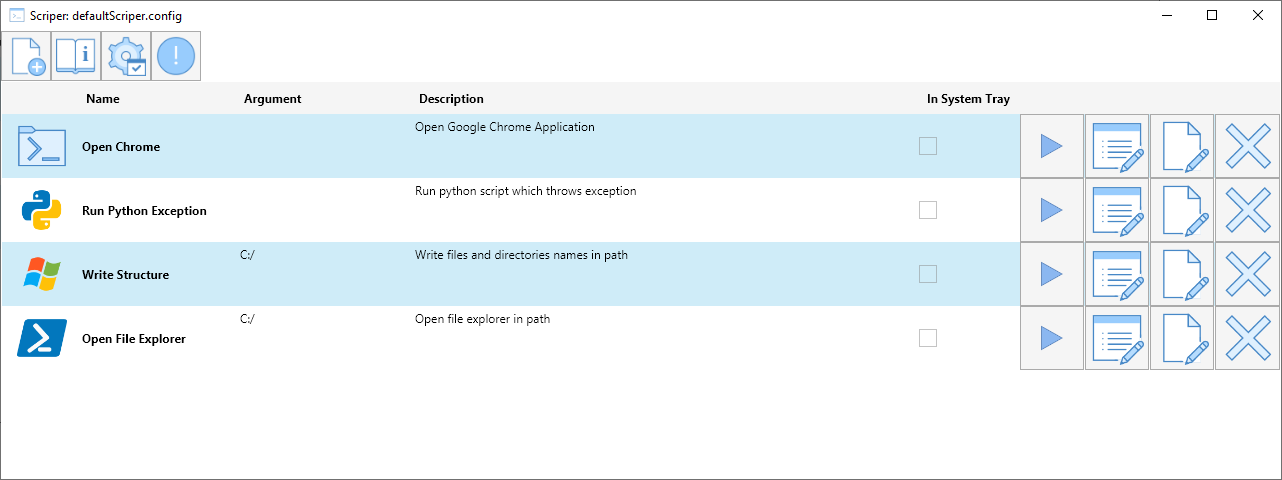
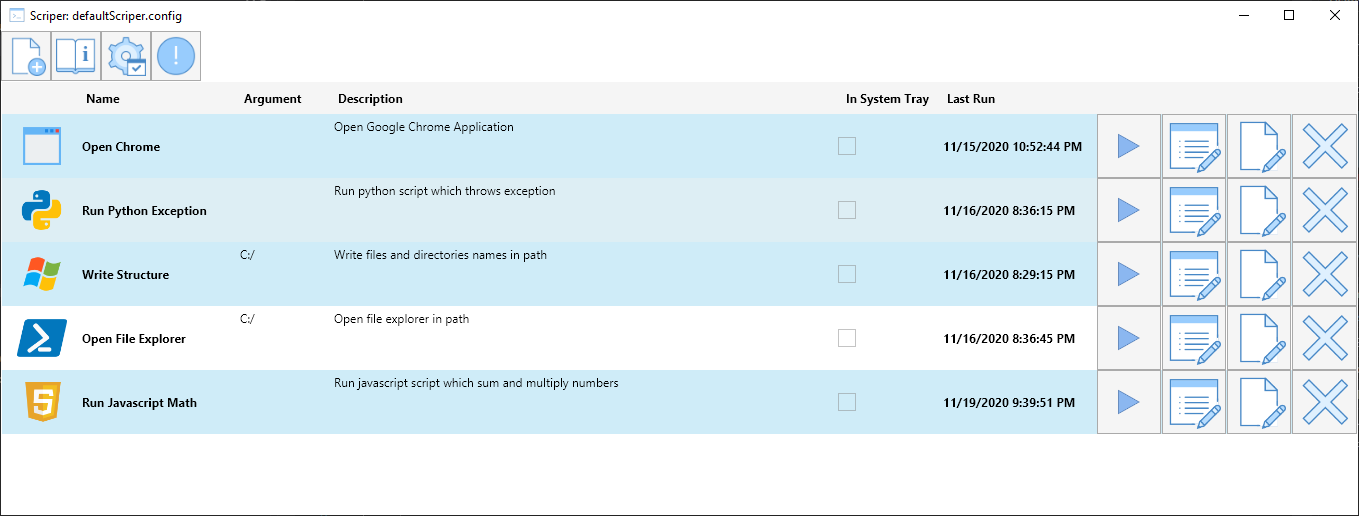
Continue in JS integration

diff --git a/ScriperSol/Scriper.UnitTests/Assets/math.js b/ScriperSol/Scriper.UnitTests/Assets/math.js
@@ -1,0 +1,10 @@
+function multiply(a,b){
+	return a*b;
+}
+log("Count")
+var a = 5+4;
+log(a, "5+4={0}");
+var b = 7-2;
+log(a, "7-2={0}");
+var result = multiply(a,b);
+log(result, "multiply(a,b)={0}");

diff --git a/ScriperSol/ScriperLib/Runners/JavascriptRunner.cs b/ScriperSol/ScriperLib/Runners/JavascriptRunner.cs
@@ -1,5 +1,10 @@
-using ScriperLib.Enums;
+using Jint;
+using Jint.Parser.Ast;
+using ScriperLib.Enums;
+using ScriperLib.Outputs;
 using System;
+using System.Collections.Generic;
+using System.IO;
 using System.Threading.Tasks;
 
 namespace ScriperLib.Runners
@@ -10,12 +15,37 @@ namespace ScriperLib.Runners
 
         public IScriptResult Run(IScript script)
         {
-            throw new NotImplementedException();
+            Action<object> writeAction = (object obj) => { WriteOutputs(script.Outputs, obj); };
+            Action<object,string> writeActionFormated = (object obj, string format) => 
+            {
+                var formated = string.Format(format, obj);
+                WriteOutputs(script.Outputs, formated); 
+            };
+            var engine = new Engine()
+                .SetValue("logf", writeActionFormated)
+                .SetValue("log", writeAction);
+
+            var scriptContent = File.ReadAllText(script.Configuration.Path);
+
+            engine.Execute(scriptContent);
+
+            return null;
         }
 
         public Task<IScriptResult> RunAsync(IScript script)
         {
-            throw new NotImplementedException();
+            return Task.Factory.StartNew(() =>
+            {
+                return Run(script);
+            });
+        }
+
+        private void WriteOutputs(ICollection<IOutput> outputs, object message)
+        {
+            foreach (var output in outputs)
+            {
+                output.WriteOutput(message.ToString());
+            }
         }
     }
 }

diff --git a/ScriperSol/Scriper/Converters/ScriptTypeToImageConverter.cs b/ScriperSol/Scriper/Converters/ScriptTypeToImageConverter.cs
@@ -20,7 +20,11 @@ namespace Scriper.Converters
                 case ScriptType.WindowsProcess:
                     return AssetsExtensions.GetAssetsImage("icons8_windows_xp_96px_1.png");
                 case ScriptType.ExeFile:
-                    return AssetsExtensions.GetAssetsImage("icons8_program_96px_1.png");
+                    return AssetsExtensions.GetAssetsImage("icons8_application_window_96px.png");
+                case ScriptType.Javascript:
+                    return AssetsExtensions.GetAssetsImage("icons8_javascript_96px.png");
+                case ScriptType.LinuxShell:
+                    return AssetsExtensions.GetAssetsImage("icons8_linux_96px.png");
                 default:
                     return null;
             }
